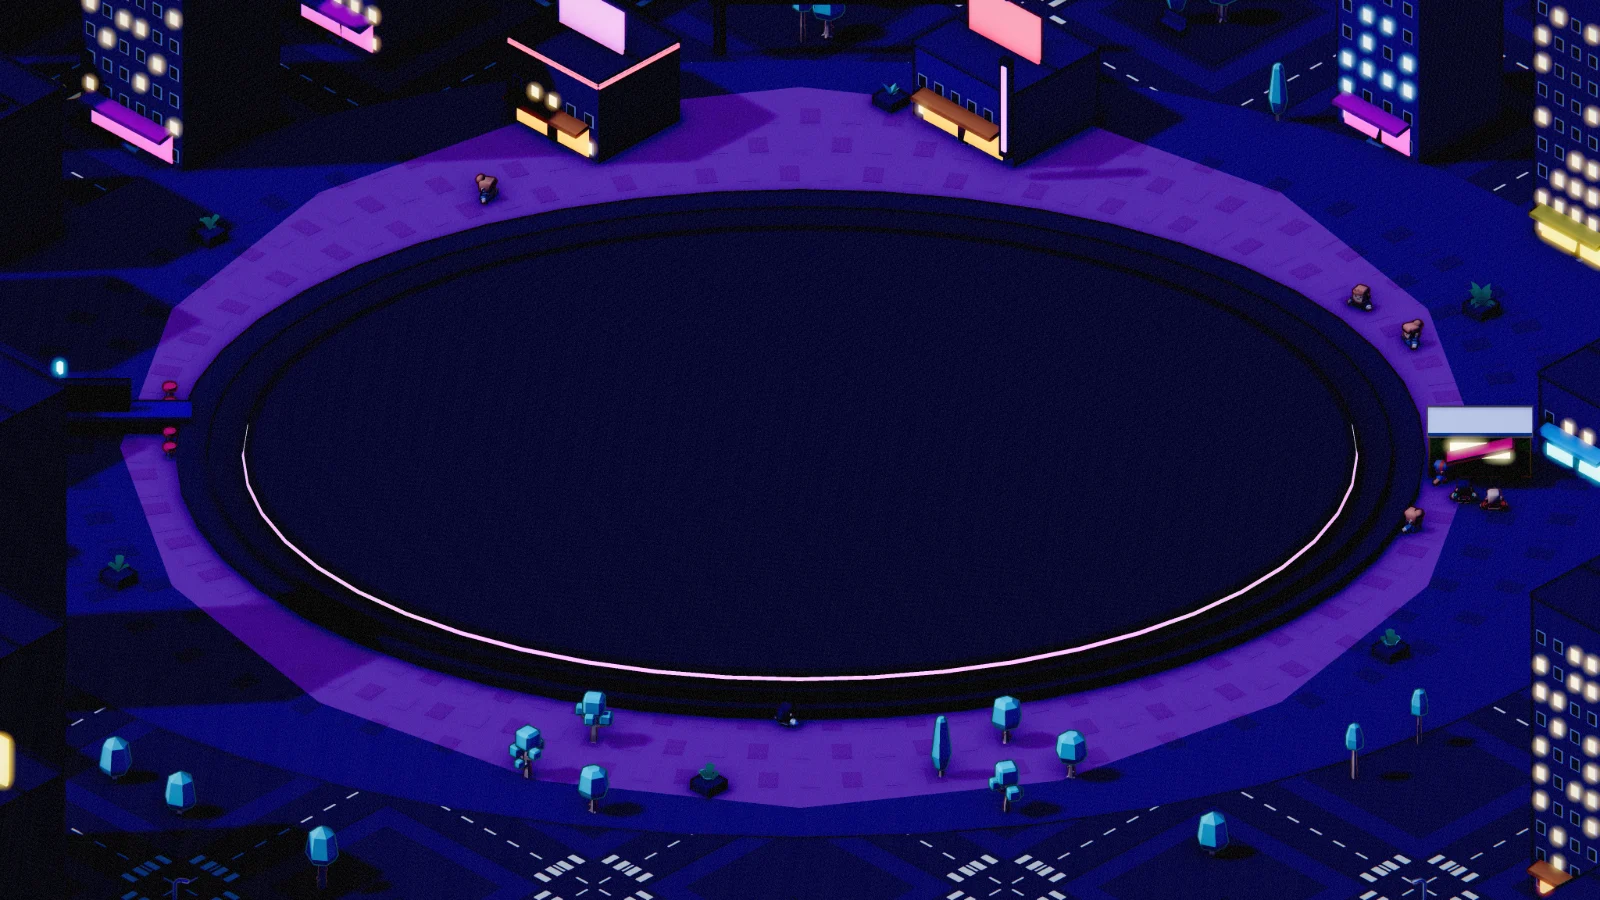
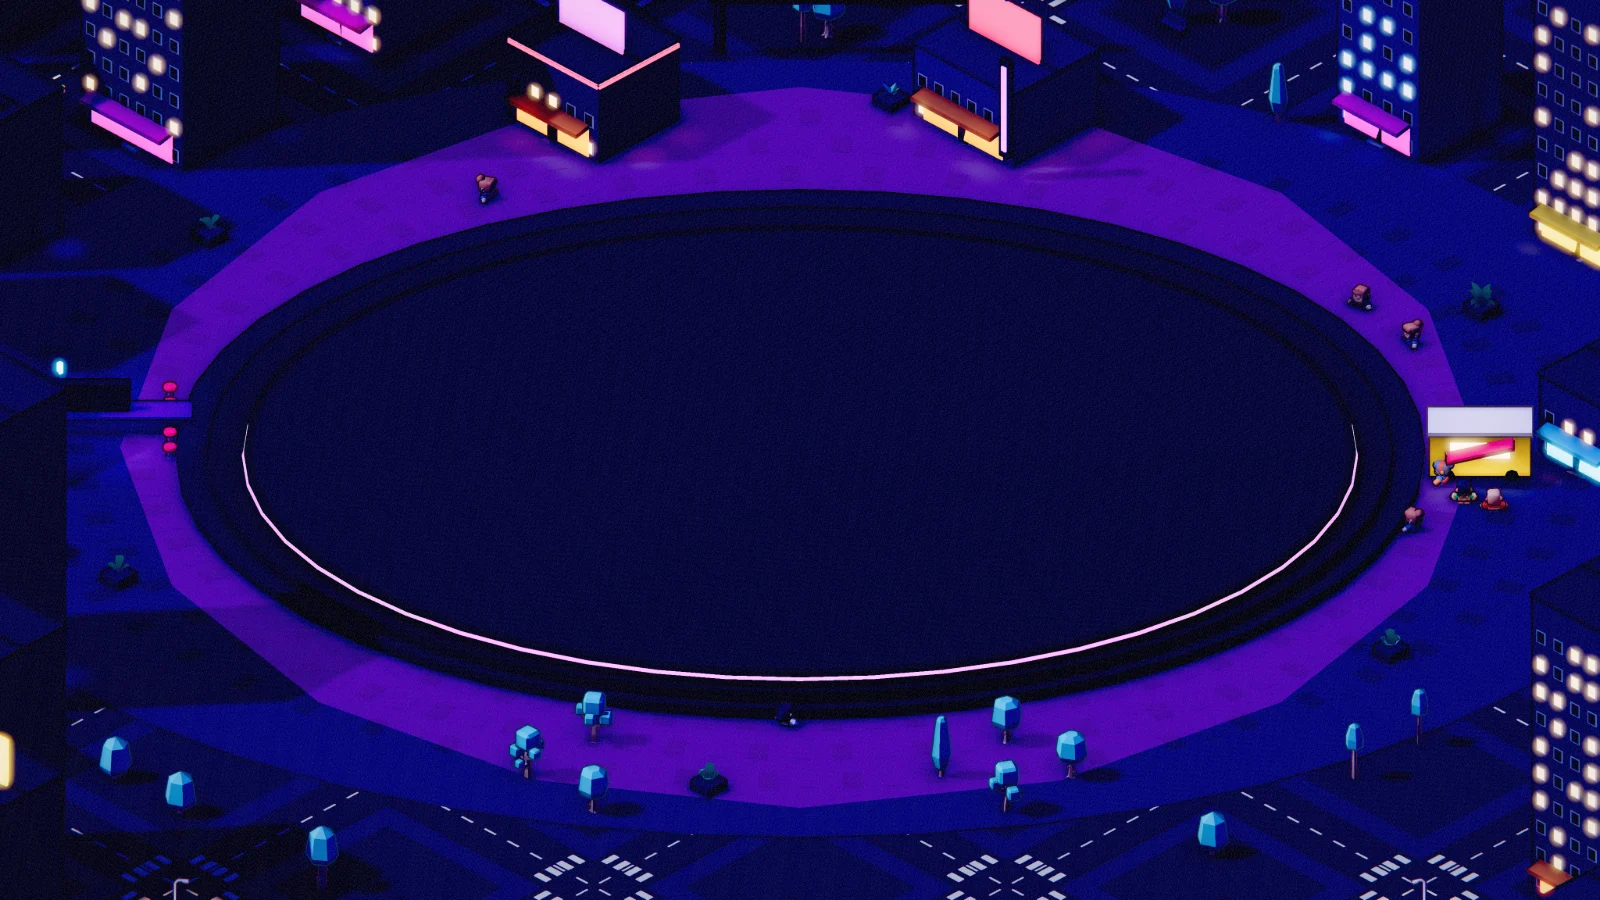
Re-shoot the rooms page stills and list the rooms' new light in the features
Claude-Session: https://claude.ai/code/session_01SsrBrmtMUi3Ccc6gBY66KY

diff --git a/docs/features.md b/docs/features.md
@@ -112,6 +112,17 @@ rules, `docs/notes/` the reasoning.
 - **Card feel**: cards are tiered by scarcity for presentation only — a number lands clean and quick, a coloured action spins once flat, a wild spins twice, arriving bigger, ringed by a shockwave and kicking the board. Special cards carry a trading-card foil masked to the frame, desynchronised per card. The discard pile reveals its new top **on impact**, so the throw is the reveal.
 - **Maps**: every match is dealt into one of six rooms — **Neon** (a rooftop terrace above a neon city), **Rune** (a village square with a wizard's tower), **Velvet** (the square in front of an art-deco hotel), **Orbit** (a base on an airless moon), **Sakura** (a hot-spring village under cherry trees) and **Marina** (a harbour front) — at one of **four hours** (dawn, day, dusk, night) under one of **six skies** (clear, overcast, rain, storm, snow, fog; each room allows its own, and it does not snow on the moon). The room is an isometric diorama rendered in the browser by a 3D engine, drawn the way an illustrated city map is drawn — flat tones, outlines in a darker note of each colour, hard shadows lying on the ground, no noise — and built from drawn low-poly models (Kenney's and Quaternius's CC0 kits, served from this origin): houses, ships, a lighthouse on its rocks, palms, cars, townsfolk, market stalls, flower beds. Nothing stands inside anything else: every prop claims its ground and is refused where the ground is taken. It is lit for the hour: lamps come on at dusk, snow settles on every roof, rain leaves puddles catching the sky, a storm flashes. **And it is photographed**: once drawn, the frame goes through a camera's finishing — the lamps' light bleeding past their glass after dark, a tilt-shift focus held on the table's band the way a miniature is shot, a vignette, a faint fringe in the corners, fine grain, and a last pass of edge smoothing over a frame already rendered at up to three times the screen — how much of it depending on the graphics preference. **The weather is drawn, not patterned**: rain is three sheets of streaks of different lengths and weights leaning into the wind at three speeds, snow three sheets of soft flakes falling and swaying, fog two sheets of haze drifting against each other, a storm the rain plus a sheet flash and a bolt's glow off one corner, all of it a few compositor layers and nothing per frame. **And it lives**: clouds drift across, gulls cross the harbour, a ferry comes through, a balloon rides the air, cars drive the streets in their own lane, smoke rises from the village chimneys, steam off the hot spring, petals fall under the cherry trees, fireflies and a wizard's spark after dark, a rover and a satellite on the moon, and a few people walk the pavements at a walking pace — each a small figure built by the same engine and carried by one animation, so the board pays nothing per frame for any of it, and every one of them stands still under reduced motion. **And it is quiet**: a room has ground between its buildings — a park, a meadow, a garden, a crater — and more of it near the table than at the frame's edge, a handful of people rather than a crowd, most windows dark after dark, one landmark a side; the mood at the table is contemplation, and the big moments are the cards'. Nothing on the ground walks through anything or over it: after the room is drawn it is rendered once more as depth, and every route is cut to the stretch where the ground is free and nothing stands between the camera and the walker. The table is drawn in CSS from the room's own materials (a neon tube set into black glass, brass around burgundy baize, red lacquer around moss green) and takes the hour's light. It changes no rule and no card. The **server** draws all three once per match and tells every seat, so a clip cut between two players does not jump between two rooms, and a rematch draws a new one. The accent tints the light the table casts and the direction ring, never the brand red, the active seat's gold or a card face.
 - **Rendered like a diorama**: every room is lit by a low warm sun with long soft shadows and a cool sky in the shade, occlusion in the creases, a filmic tone curve and a warm/cool grade, photographed once per match at the loading gate and kept as a bitmap — so the match itself costs nothing per frame, on an integrated GPU as on a discrete one. Every number of it lives in `client/src/components/scene/look.ts`, and in dev `?look=1` opens a panel over them.
+- **Water, light and weather that belong to the room**: window glass, car paint and a wet street
+  have a gloss and mirror the sky; the harbour, the rivers and the onsen mirror the room itself (the
+  lighthouse and the ships stand in the sea, the neon runs down the paving after rain) over a swell
+  that catches the sun, and a river's bank has a line of foam. Lamps light the ground's own colour
+  with a falloff instead of laying a disc on it, and a lit window at street level spills onto the
+  pavement. Every room has a light of its own — the moon airless with hard shadows, neon indigo and
+  pink, the hotel brass, the harbour teal and sand — and a dawn or a fog lays mist in the low ground.
+  Sakura's cherries are drawn trees in blossom, under a drawn torii. After dark a few windows light
+  up and go out during the match and a neon tube stutters now and then. Rain lands in rings; snow
+  banks against the walls and keeps ruts and footprints. The high and medium graphics tiers carry
+  the reflections and the mist; everything that moves rests still under reduced motion.
 - **Synchronised loading**: between "hands dealt" and "clock running" the table stays shut while every client fetches the engine and renders the room, on a screen naming the room, its hour and its sky, and showing who is still rendering. The game is decided by arrival order, so starting the first turn against a bare sky would be a head start. Gameplay messages are refused server-side until then, and a 20 s deadline stops one backgrounded tab holding the room hostage. The room is rendered **once** and kept as a bitmap: the cards own the frame budget, and the weather is a CSS layer over it.
 - **Streamable moments**: interception slam (banner + screen shake + sting), Contre-LOCO! verdict stamp with the penalty cards flying to the caught seat, LOCO! punch-in banner, floating SKIP/REVERSE/+N callouts, per-seat identity colours, exact card counts on every opponent.
 - **Audio**: runtime-synthesised effects for every action and rule outcome, plus an **adaptive music bed** of nineteen loops — from *Intermission* and *Idle Hands* over the count-up, through *Patience*, *Late Arrivals* and *Rowdy* in the waiting room and *Sleight*, *Full Table* and *Clockwork* over ordinary play, to *Neck and Neck*, *Runaway* and *Bad Manners* once somebody is one card from winning — played as a **shuffled playlist** with a single ⏭ control. Each loop carries one or more moods and the table's tension picks which one plays: the jazz between rounds, a lighter one in the waiting room, the funk when somebody is one card from winning. The loops are grouped in three palettes (lounge, party, night) and a match is played inside one, so a change of loop is never a change of genre. A loop that has come round twice hands over to another of the same mood and palette, so the music moves even when the game does not; a fall in tension is believed only after it has held, so an endgame does not retune the bed on every draw; **every change of loop lands on a bar line of the piece going out**, a rise in a short fade and a fall in a long one, and a loop that has come round twice hands over exactly on its wrap, the old piece fading over its last bar and the new one opening on the one; the menu's music runs on under the 1v1 search and the reveal, and the game-over recap plays the match's own palette down to its after-hours piece; a hidden tab pauses the bed and resumes the same loop where it was; **every loop's key is known** (measured on the files), so the next piece is the nearest key left in the bag and two loops are only overlapped when they agree in key and tempo: then the crossfade hands the bass over on a beat, otherwise the outgoing loop is closed down under a low-pass over its last two beats, a breath of air rises into the downbeat and the next one lands whole on it; a rise enters its loop on the first full phrase rather than on an intro, a fall waits for the end of the phrase; **the effects are struck in the bed's key** (moved at most three semitones, so every cue is still itself); the bed ducks under a round's fanfare, **stops like a braked record** under the match's and comes back under the recap, dips for a LOCO! or a Contre-LOCO!, and steps behind a door while the rules or the preferences are open. Per-bus mixer (overall / effects / music) with mute, persisted. Nothing plays before the first user gesture, and no sound effect is a file.
